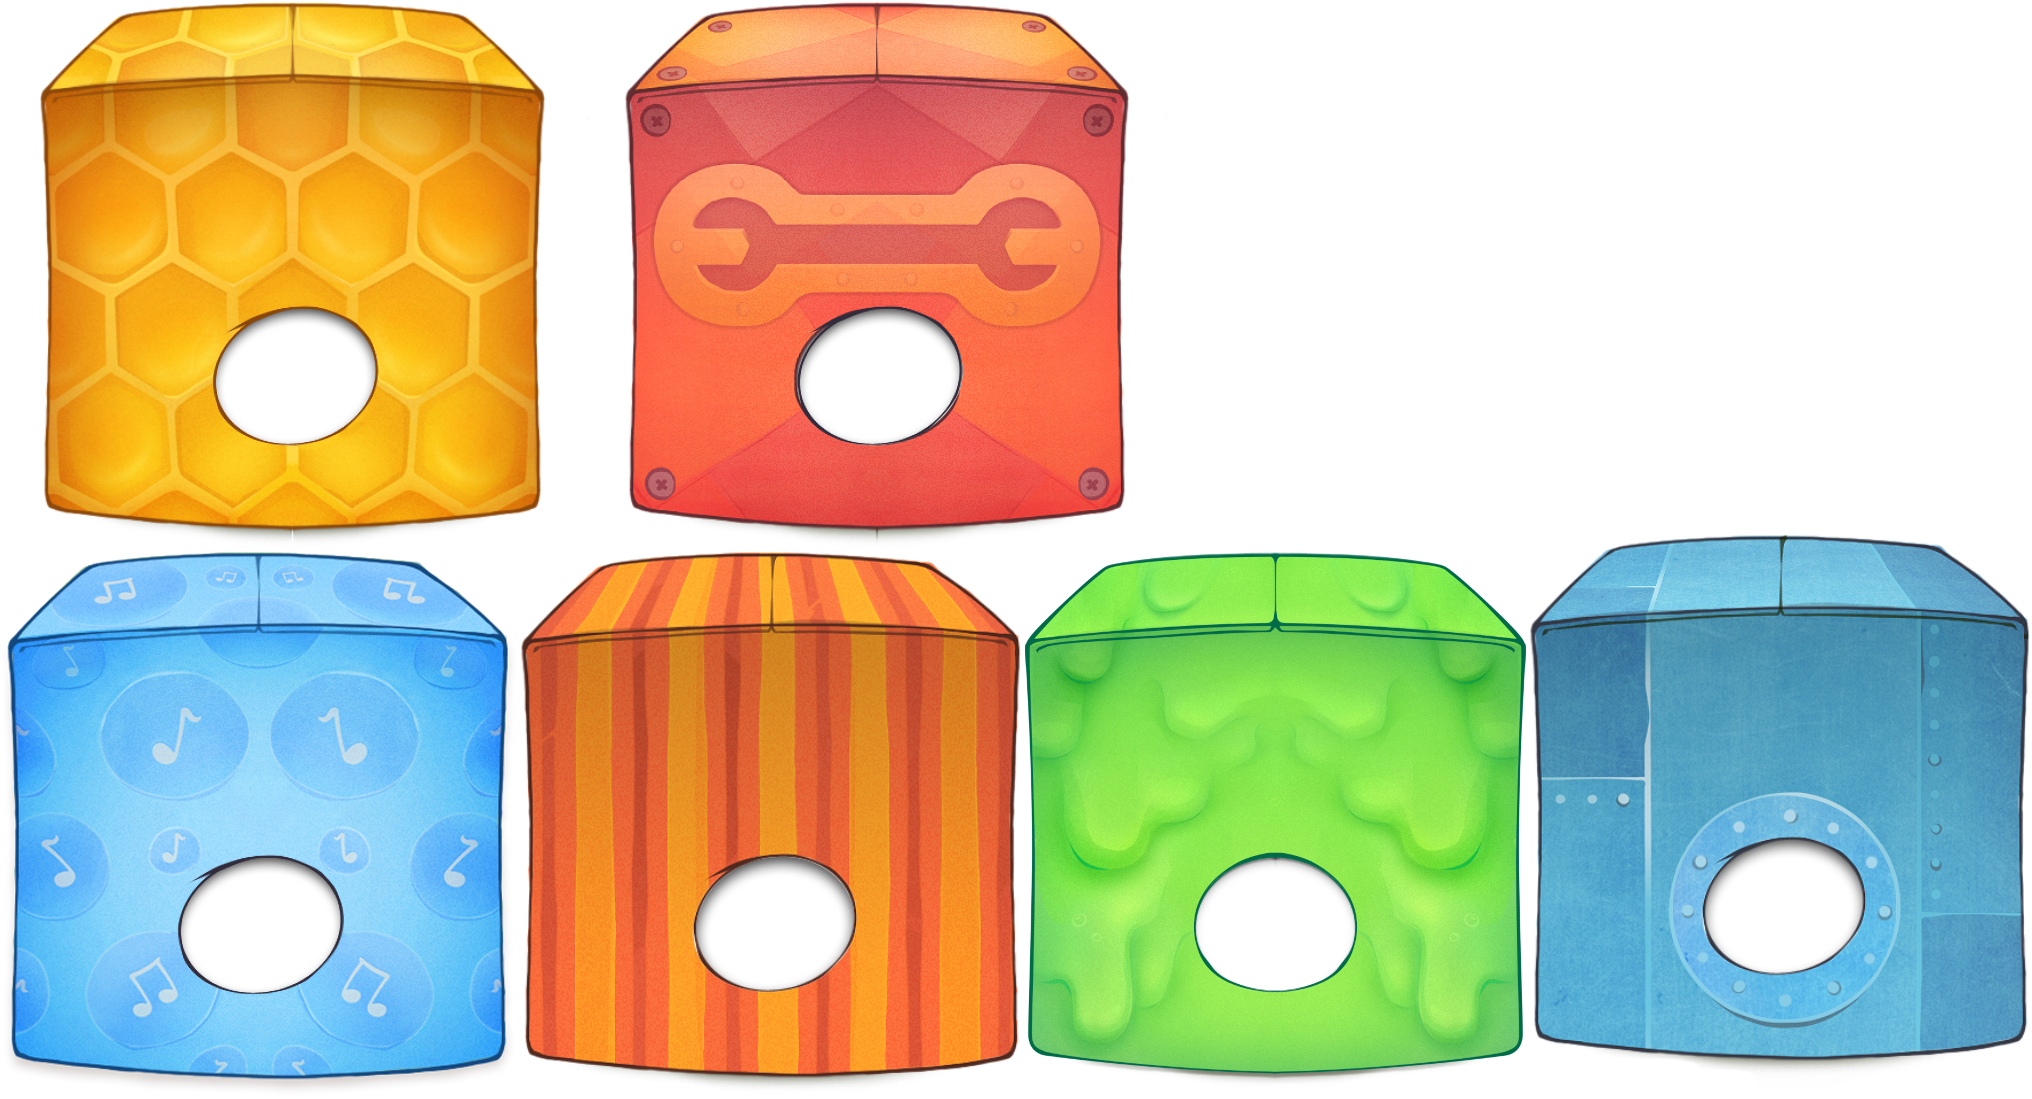
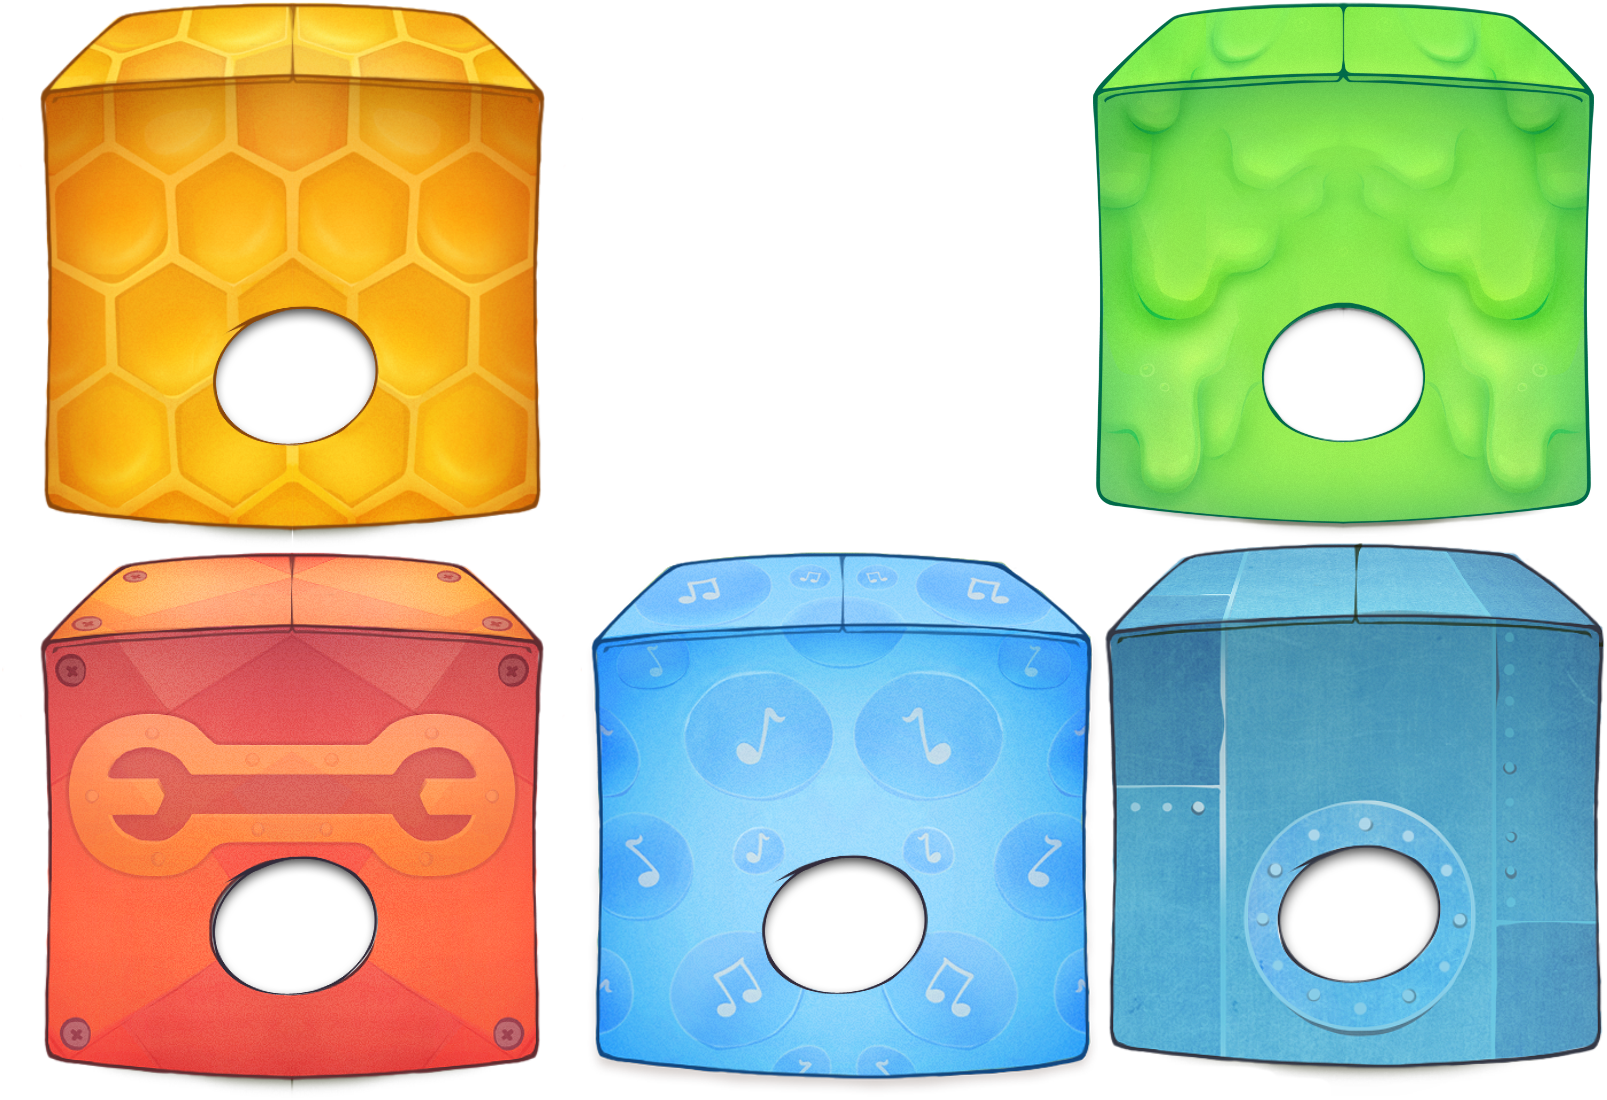
Refactor pack selection to use explicit quad mapping with safe fallbacks (#39)
* refactor box pack quad to be more explicit, remove...

...duplicate gift box sprite

* add fallback to prevent invalid quad, and make sure the...

...last box is always the last quad

* use switch statement

* mark as static

diff --git a/CutTheRope/GameMain/MenuController.cs b/CutTheRope/GameMain/MenuController.cs
@@ -580,6 +580,30 @@ namespace CutTheRope.GameMain
             return boxWidth * 3f > num - 200f ? boxWidth / 2f : 0f;
         }
 
+        // Explicit mapping from pack index to quad index
+        // MenuPackSelection quads 4-10 are packs 1-7 (Cardboard, Fabric, Foil, Valentine, Cosmic, Toy, Gift)
+        private static readonly int[] PackSelection1QuadMap =
+        [
+            4,  // pack 1
+            5,  // pack 2
+            6,  // pack 3
+            7,  // pack 4
+            8,  // pack 5
+            9,  // pack 6
+            10, // pack 7
+        ];
+
+        // MenuPackSelection2 quads 0-5 are packs 8-12
+        private static readonly int[] PackSelection2QuadMap =
+        [
+            0, // pack 8
+            1, // pack 9
+            2, // pack 10
+            3, // pack 11
+            4, // pack 12
+            5, // coming soon box
+        ];
+
         public BaseElement CreatePackElementforContainer(int n, ScrollableContainer c)
         {
             TouchBaseElement touchBaseElement = new()
@@ -595,12 +619,39 @@ namespace CutTheRope.GameMain
             {
                 CTRPreferences.SetUnlockedForPackLevel(UNLOCKEDSTATE.JUSTUNLOCKED, n, 0);
             }
-            string resourceName = Resources.Img.MenuPackSelection;
-            int q = 4 + n;
-            if (n > 6)
+            string resourceName;
+            int q;
+
+            // Determine resource and quad based on pack index
+            switch (n)
             {
-                resourceName = Resources.Img.MenuPackSelection2;
-                q = n - 6;
+                case var _ when n == CTRPreferences.GetPacksCount():
+                    // "Coming soon" box - always use the last quad from MenuPackSelection2
+                    resourceName = Resources.Img.MenuPackSelection2;
+                    q = PackSelection2QuadMap[^1];
+                    break;
+
+                case <= 6:
+                    // Packs 0-6 use MenuPackSelection
+                    resourceName = Resources.Img.MenuPackSelection;
+                    q = n >= 0 && n < PackSelection1QuadMap.Length ? PackSelection1QuadMap[n] : 4; // fallback to pack 1
+                    break;
+
+                default:
+                    // Packs 7+ use MenuPackSelection2
+                    int index = n - 7;
+                    if (index >= 0 && index < PackSelection2QuadMap.Length - 1) // -1 to exclude "coming soon" quad
+                    {
+                        resourceName = Resources.Img.MenuPackSelection2;
+                        q = PackSelection2QuadMap[index];
+                    }
+                    else
+                    {
+                        // fallback to pack 1 from MenuPackSelection
+                        resourceName = Resources.Img.MenuPackSelection;
+                        q = 4;
+                    }
+                    break;
             }
             string nsstring;
             if (n == CTRPreferences.GetPacksCount())

diff --git a/CutTheRope/GameMain/MapPickerController.cs b/CutTheRope/GameMain/MapPickerController.cs
@@ -104,7 +104,7 @@ namespace CutTheRope.GameMain
             selectedMap = map;
         }
 
-        public void OnButtonPressed(MapPickerControllerButtonId n)
+        public static void OnButtonPressed(MapPickerControllerButtonId n)
         {
             if (n == MapPickerControllerButtonId.Start)
             {
